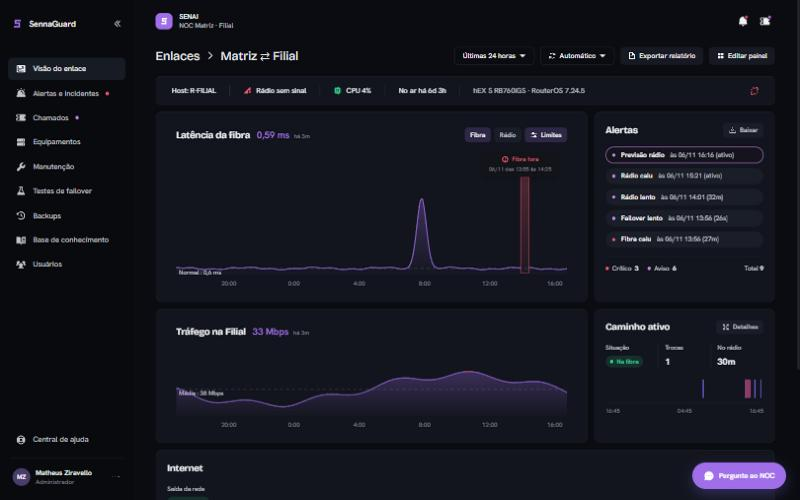
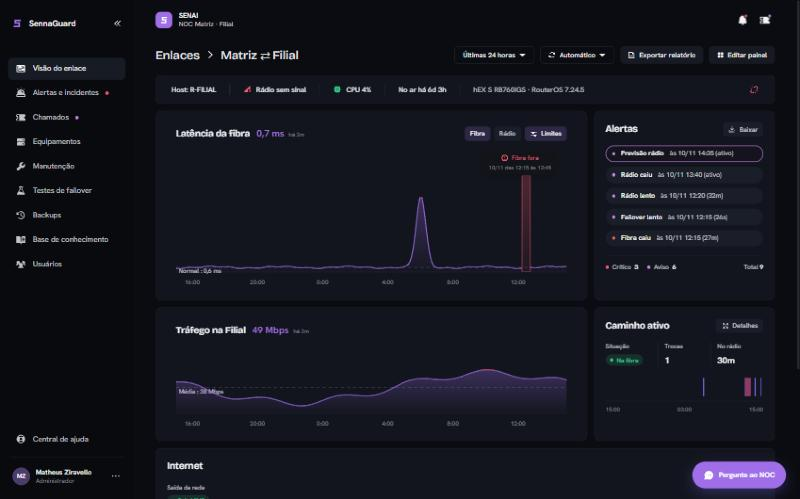
docs: adiciona capturas atuais da interface do SennaGuard
Capturas das telas do painel (login, visão do enlace, alertas, chamados,
equipamentos, manutenção, testes de failover, backups, base de
conhecimento e usuários) na identidade visual atual, incorporadas às
seções da Parte 2 da documentação técnica.

diff --git a/docs/DOCUMENTACAO.md b/docs/DOCUMENTACAO.md
@@ -327,6 +327,8 @@ O menu exibe apenas as funções permitidas; qualquer operação fora do perfil 
 
 ## 18. Alertas com análise por IA
 
+![Alertas e incidentes dos últimos 7 dias](img/alertas.jpg)
+
 Lista os problemas detectados nos últimos 7 dias em todos os equipamentos; cada alerta relevante recebe uma análise do Analista IA, estruturada em quatro partes:
 
 1. **Resumo** — descrição do ocorrido em uma frase.
@@ -337,6 +339,8 @@ Lista os problemas detectados nos últimos 7 dias em todos os equipamentos; cada
 Cada análise solicita a avaliação "foi útil?"; as respostas compõem o indicador de precisão da IA, exibido no topo da tela.
 
 ## 19. Chamados com histórico auditável
+
+![Chamados com livro encadeado por SHA-256](img/chamados.jpg)
 
 Chamados abertos por usuários e chamados gerados automaticamente pelo NOC são reunidos em uma única tela.
 
@@ -349,6 +353,8 @@ Cada registro é encadeado em um **livro por SHA-256**: contém o resumo criptog
 
 ## 20. Equipamentos e topologia ao vivo
 
+![Topologia ao vivo, sinal do rádio e estado dos equipamentos](img/equipamentos.jpg)
+
 Mostra o caminho em uso, o sinal do rádio e a disponibilidade de cada host monitorado pelo Zabbix.
 
 - **Caminho ativo:** R-MATRIZ → R-FILIAL com fibra (custo 10) e rádio (custo 100); o enlace em uso é destacado e animado.
@@ -359,6 +365,8 @@ Um equipamento é sinalizado em vermelho apenas quando não responde em nenhuma 
 
 ## 21. Manutenção, testes de failover e backups
 
+![Backups de configuração com comparação linha a linha](img/backups.jpg)
+
 Rotinas operacionais executadas e registradas pela própria plataforma.
 
 - **Manutenção programada:** agenda janelas de trabalho — o Zabbix continua medindo, mas as notificações ficam suspensas. A Filial é avisada pelo Telegram no agendamento e 1 h antes.
@@ -366,6 +374,8 @@ Rotinas operacionais executadas e registradas pela própria plataforma.
 - **Backups de configuração:** exportação diária às 3 h dos dois roteadores (`/export terse`, sem senhas). Gera nova versão apenas quando há alteração e compara versões linha a linha, com explicação pela IA. Cada versão pode ser baixada (`.rsc`) e a página traz o guia de restauração.
 
 ## 22. Conhecimento, usuários e assistente
+
+![Gestão de usuários, perfis e telas de TV](img/usuarios.jpg)
 
 Recursos que preservam o conhecimento da equipe e controlam o acesso à plataforma.
 
